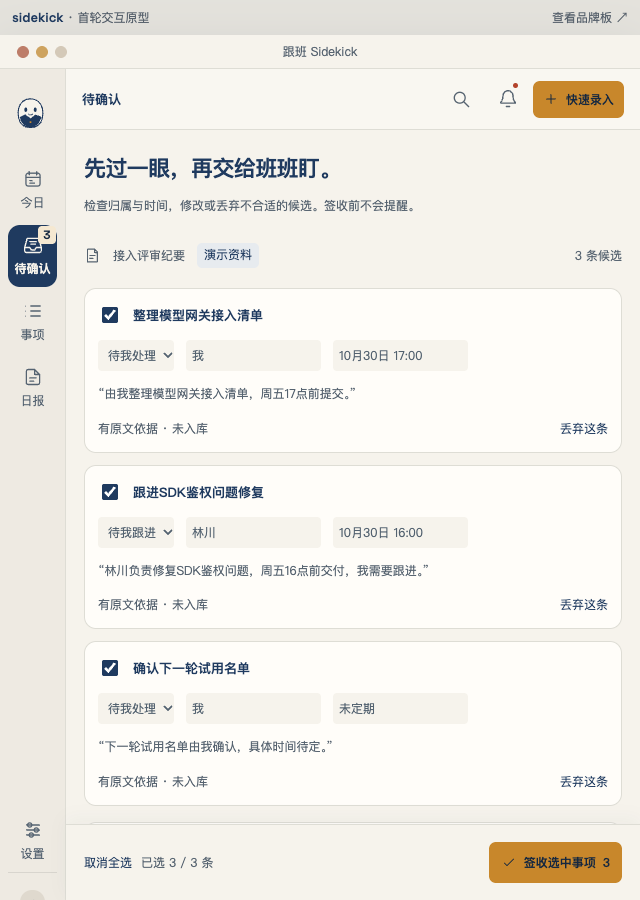
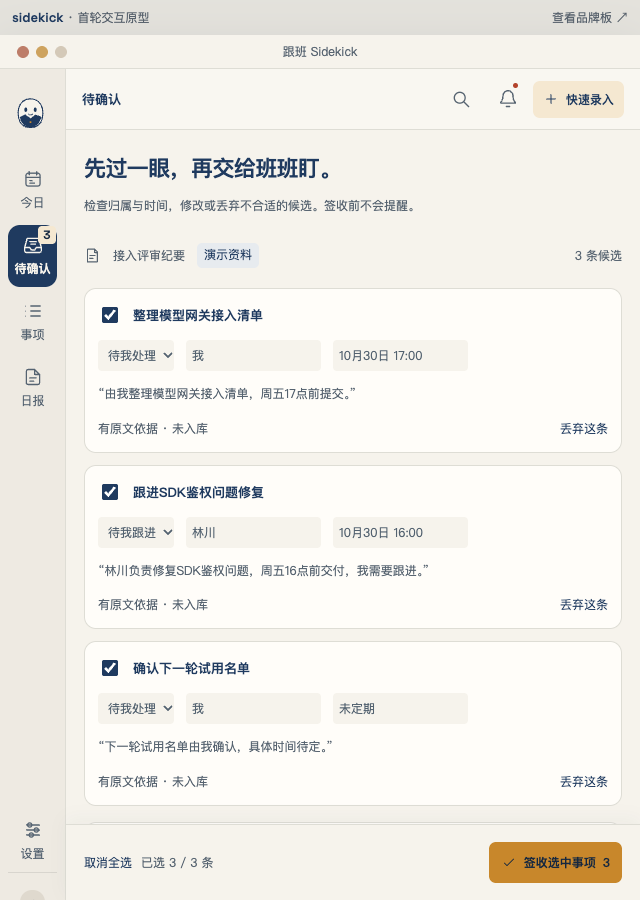
Refine prototype button hierarchy and design records

Changed region(s): [[0.8125, 0.0622, 1.0, 0.1556]]

diff --git a/design/prototype/index.html b/design/prototype/index.html
@@ -38,7 +38,7 @@
   <div class="sidebar-bottom"><button data-page="settings" aria-label="设置" title="设置" class="nav-item"><svg class="icon"><use href="#i-settings"/></svg><span class="nav-label">设置</span><span class="nav-short" aria-hidden="true">设置</span></button><div class="connection"><span class="status-dot"></span><span>飞书连接 · 演示</span></div><div class="profile"><span class="avatar">我</span><span>我的工作空间<small>仅本地交互演示</small></span></div></div>
  </aside>
  <main class="workspace">
-  <header class="toolbar"><span id="page-label">今日工作台</span><div class="toolbar-actions"><button class="icon-button" data-action="search" aria-label="搜索事项"><svg class="icon"><use href="#i-search"/></svg></button><button class="icon-button" data-action="reminder" aria-label="预览飞书提醒"><svg class="icon"><use href="#i-bell"/></svg><i class="notification-dot"></i></button><span class="toolbar-divider"></span><button class="button primary" data-action="intake"><svg class="icon"><use href="#i-plus"/></svg><span>快速录入</span><kbd>⌘ K</kbd></button></div></header>
+  <header class="toolbar"><span id="page-label">今日工作台</span><div class="toolbar-actions"><button class="icon-button" data-action="search" aria-label="搜索事项"><svg class="icon"><use href="#i-search"/></svg></button><button class="icon-button" data-action="reminder" aria-label="预览飞书提醒"><svg class="icon"><use href="#i-bell"/></svg><i class="notification-dot"></i></button><span class="toolbar-divider"></span><button class="button quick-entry" data-action="intake"><svg class="icon"><use href="#i-plus"/></svg><span>快速录入</span><kbd>⌘ K</kbd></button></div></header>
   <div id="view" class="view"></div><div id="review-bar" class="review-bar" role="region" aria-label="待确认签收操作" hidden></div>
  </main>
 </div>

diff --git a/design/prototype/prototype.css b/design/prototype/prototype.css
@@ -15,3 +15,5 @@ html{background:#e4e2dc;color:var(--ink);font-family:var(--font);font-size:14px}
 .nav-short{display:none}.review-bar[hidden]{display:none}.review-bar{display:flex;flex-shrink:0;align-items:center;justify-content:space-between;gap:14px;min-height:76px;padding:16px 32px;background:var(--ivory);border-top:1px solid var(--line)}.review-summary{display:flex;align-items:center;gap:16px;color:var(--muted);font-size:12px}.review-summary .text-button{font-size:12px}
 @media(max-width:960px){.nav-item{position:relative;flex-direction:column;gap:5px;padding:9px 4px;min-height:62px}.nav-item>.nav-short{display:block;font-size:12px;line-height:1.5;white-space:nowrap}.nav-item>b{display:block;position:absolute;top:1px;right:1px;padding:1px 4px;min-width:18px;font-size:12px}.review-bar{padding-inline:24px}}
 @media(max-width:760px){.review-bar{position:fixed;bottom:0;left:66px;right:0;z-index:25;padding:12px 18px;min-height:76px;box-shadow:0 -5px 18px #16283f0a}.reviewing .view{padding-bottom:110px}.review-summary{gap:9px;flex-wrap:wrap}.reviewing .toast{bottom:94px}.review-bar .button{font-size:12px;white-space:nowrap;padding:11px}}
+
+.button.quick-entry{background:var(--soft-amber);color:var(--ink)}.button.quick-entry:hover{background:#eedcbf}.button.quick-entry:focus-visible{outline-color:var(--ink)}

diff --git a/DESIGN.md b/DESIGN.md
@@ -69,6 +69,14 @@ spacing:
   page: "32px"
   wide: "40px"
 components:
+  button-quick-entry:
+    backgroundColor: "{colors.soft-amber}"
+    textColor: "{colors.ink}"
+    typography: "{typography.label}"
+    rounded: "{rounded.control}"
+    padding: "12px 13px"
+  button-quick-entry-hover:
+    backgroundColor: "#eedcbf"
   button-primary:
     backgroundColor: "{colors.amber}"
     textColor: "{colors.night}"
@@ -153,7 +161,7 @@ components:
 ### Primary
 
 - **墨蓝 Ink / 深墨 Night**：主要文字、选中导航与深色按钮；深墨用于深色交互反馈。
-- **琥珀 Amber / 浅琥珀 Soft Amber**：快速录入、签收、焦点与待确认提示；琥珀按钮使用深墨文字。
+- **琥珀 Amber / 浅琥珀 Soft Amber**：浅琥珀底＋墨蓝字用于顶部快速录入；实心琥珀底＋深墨字用于签收等当前页主操作；琥珀也用于焦点和待确认提示。
 
 ### Secondary
 
@@ -165,7 +173,7 @@ components:
 - **侧栏 Sidebar / 分隔 Line**：稳定导航与结构分界。
 - **次要文字 Muted / 浅墨 Soft Ink**：元信息与中性反馈。正文、标签和状态均需保留文字可辨性。
 
-**The Action Color Rule.** 琥珀强调行动与提醒，砖红表达问题；两者不互换职责。
+**The Action Color Rule.** 顶部全局快速录入使用浅琥珀，签收等当前主操作使用实心琥珀；砖红表达问题。
 
 当前 CSS 的次要文字对比度：对象牙为 5.55:1，对侧栏为 5.13:1；深墨对琥珀为 4.94:1。这只覆盖上述组合，不构成整站无障碍认证。JSON 中合成的色阶仅用于面板预览，不是新增界面令牌。
 
@@ -203,7 +211,7 @@ Space Grotesk 本地可变字体声明覆盖字重 300–700；随资产保留 [
 
 ## Components
 
-- **Buttons**：琥珀主操作、墨蓝确认操作、描边次操作；常规最小高度 36px，小按钮最小高度 30px。悬停变换底色，按下位移 1px，禁用降低不透明度；键盘焦点使用琥珀 3px 外框、3px 间距。
+- **Buttons**：浅琥珀全局录入、实心琥珀主操作、墨蓝确认操作、描边次操作；常规最小高度 36px，小按钮最小高度 30px。悬停变换底色，按下位移 1px，禁用降低不透明度；键盘焦点默认使用琥珀 3px 外框、3px 间距；浅琥珀快速录入使用墨蓝外框。
 - **Inputs / Fields**：纸白底、细描边、墨蓝文字和插入符；表单标签可见，搜索另有无障碍名称。错误以砖红文字明确说明，不能只靠颜色。
 - **Navigation**：当前项墨蓝底与象牙文字，同时设置 `aria-current`；窄导航继续显示短标签。保留今日、待确认、全部事项、日报与设置的当前入口。
 - **Chips / Cards**：标签是简短状态，不承担主操作。候选卡包含勾选、可编辑字段、原文摘录与丢弃入口；未签收不能混入正式事项。
